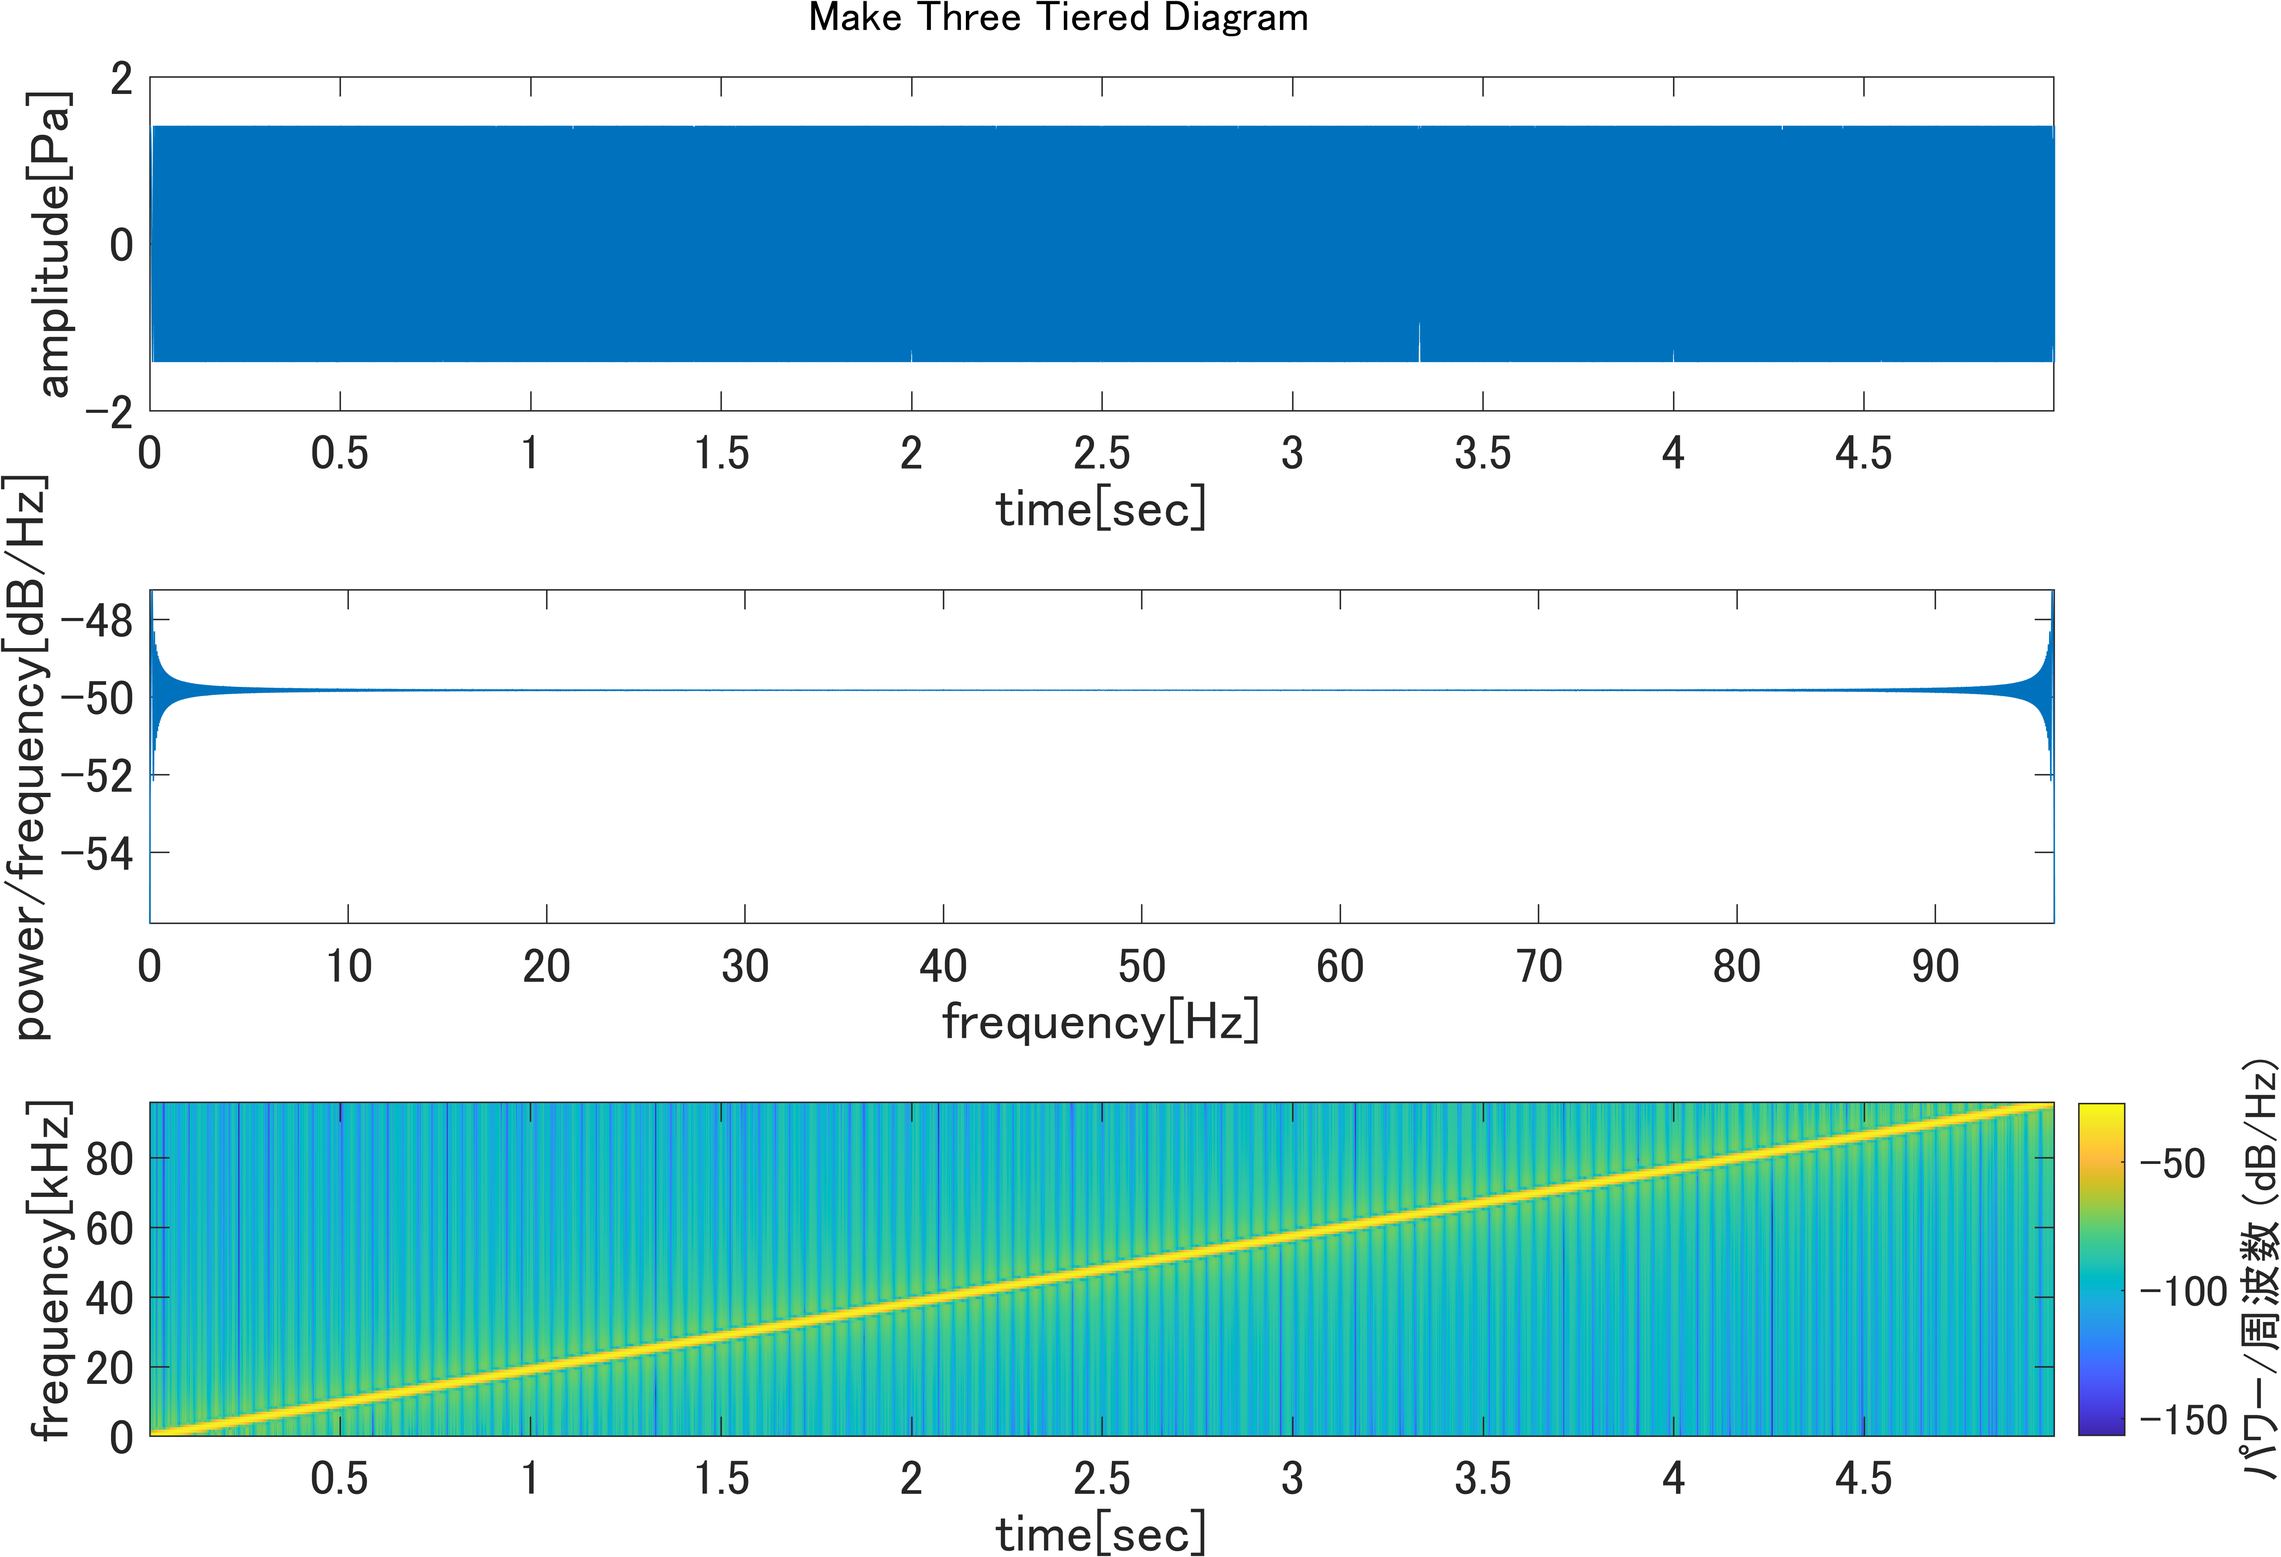
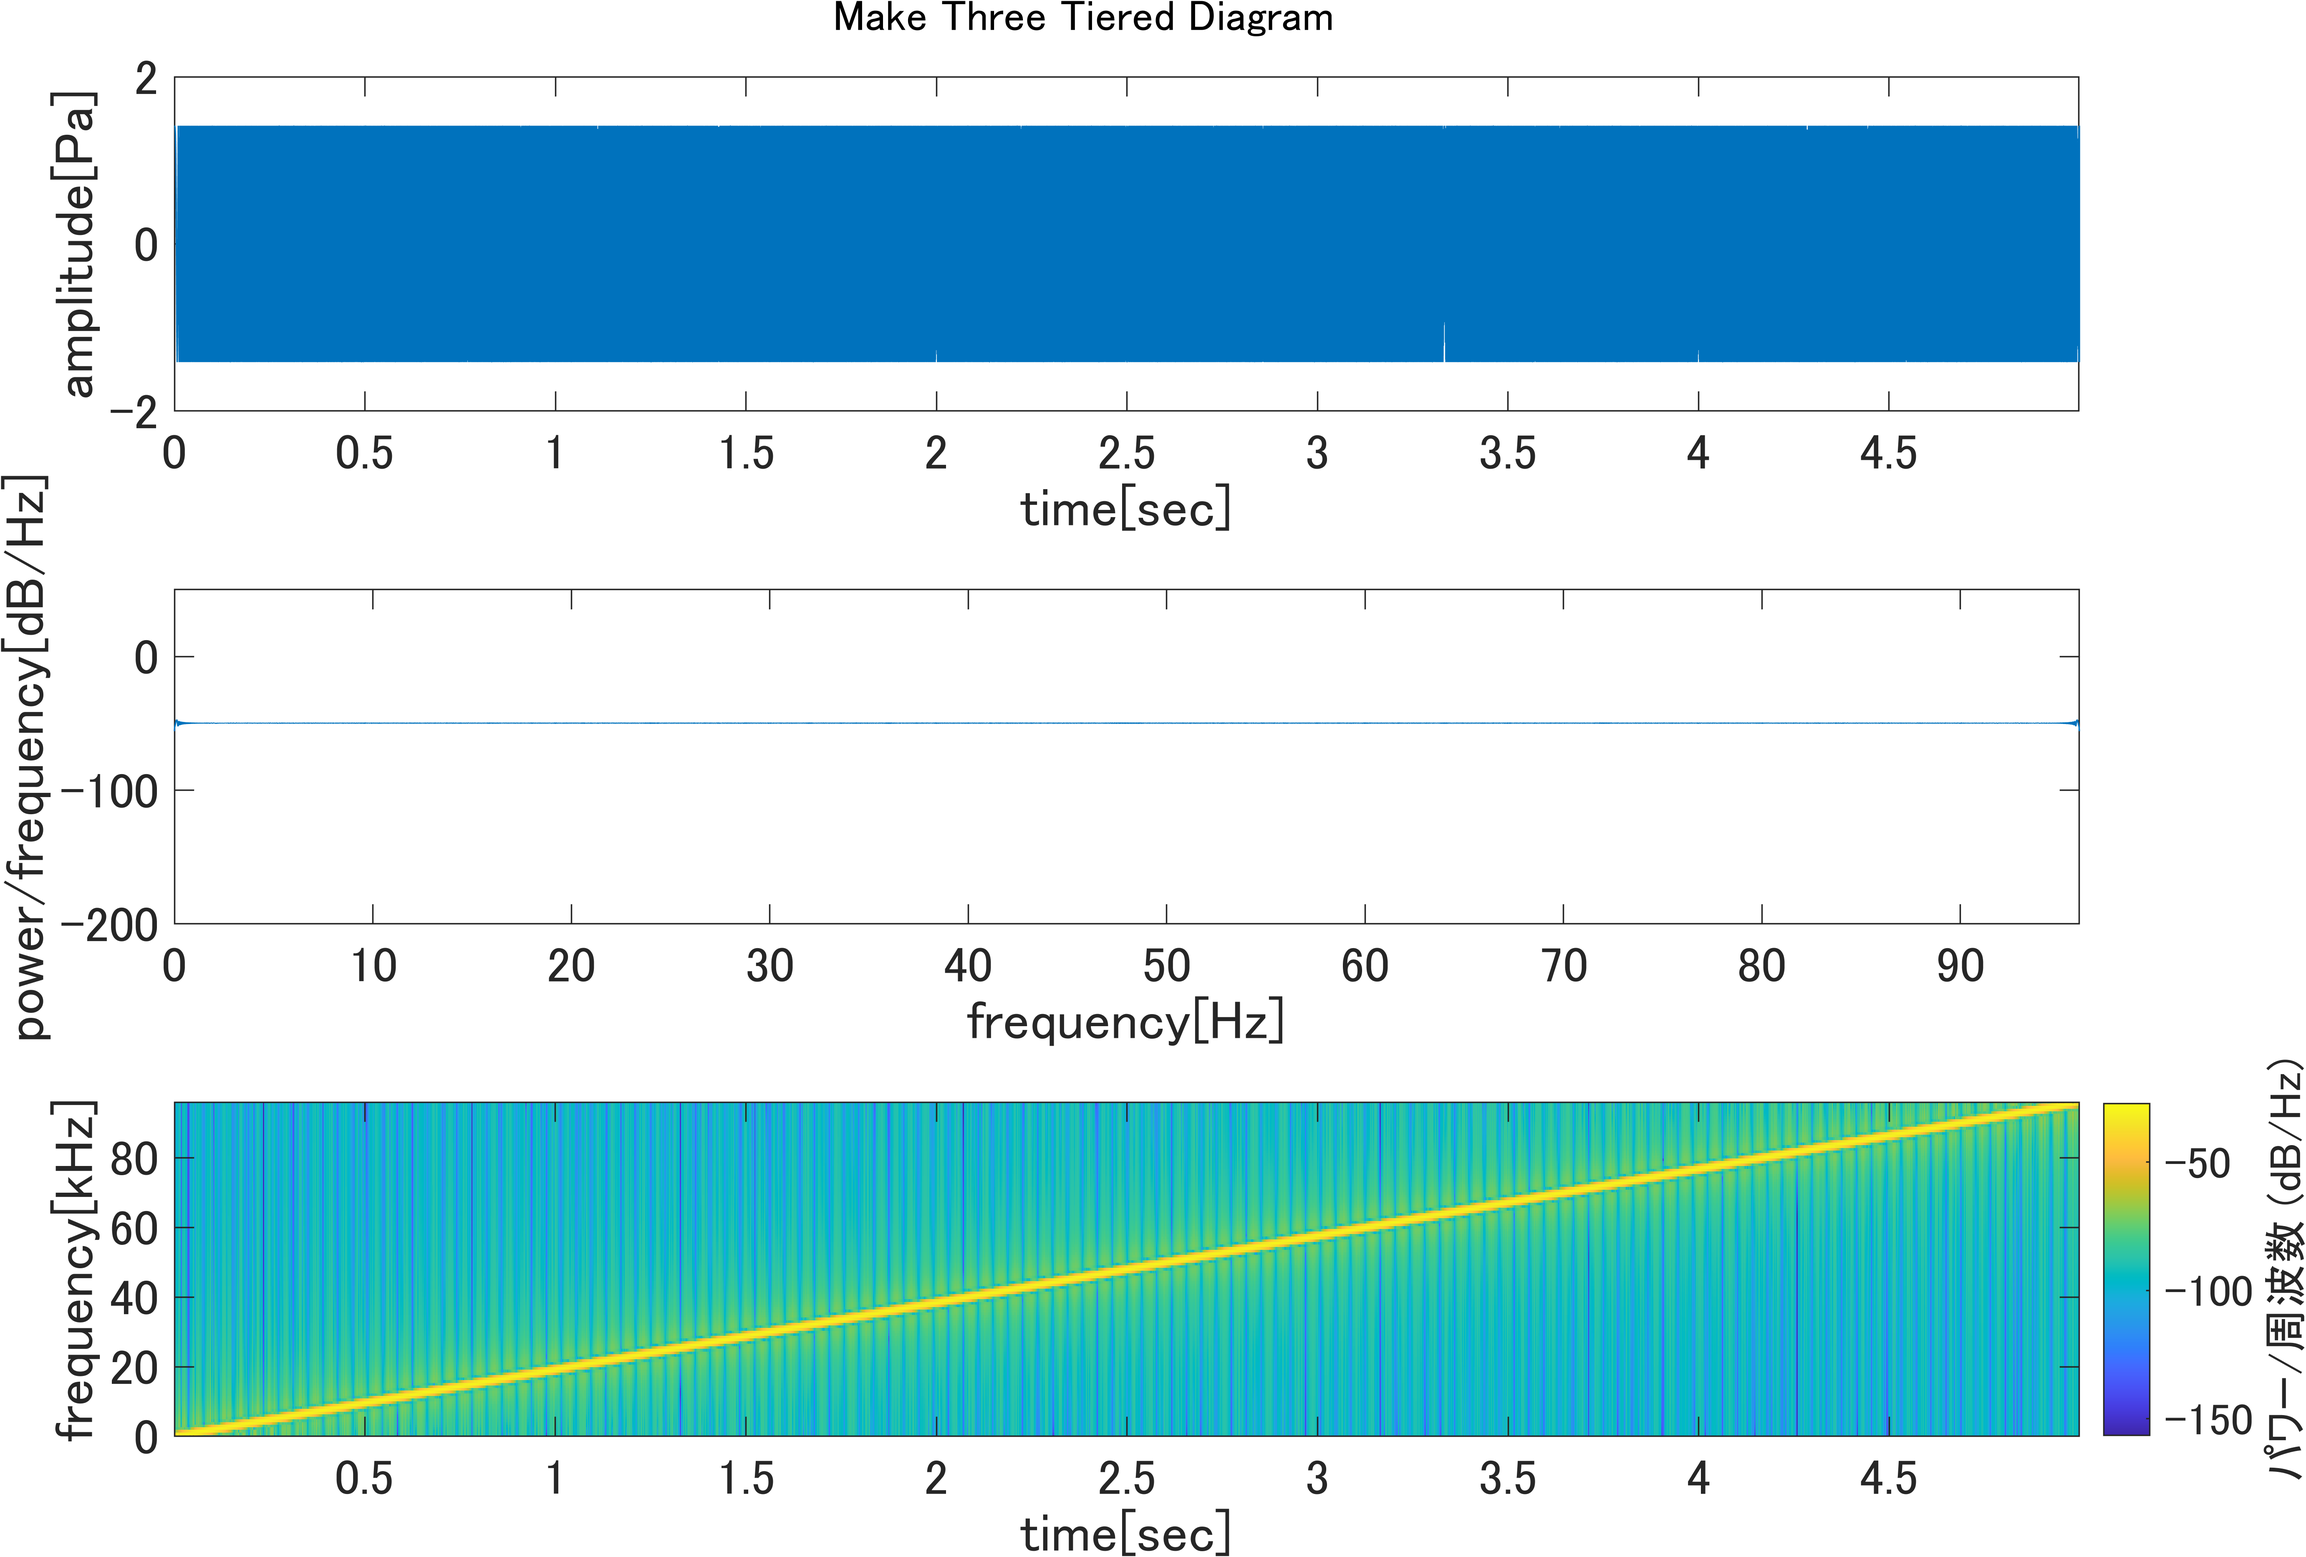
little change

diff --git a/2021/make_two_tiered_diagram_with_noise.m b/2021/make_two_tiered_diagram_with_noise.m
@@ -41,7 +41,7 @@ ax = gca;
 ax.FontSize = 20;
 
 %% 三段の図を作成する
-func_make_two_tiered_diagram_with_noise(t,y,fs,0,'./make_two_tiered_diagram/chirp_two_tiered_diagram.png');
+func_make_two_tiered_diagram_with_noise(t,y,fs,1,'./make_two_tiered_diagram/chirp_two_tiered_diagram.png');
 
 %% end %%
 
@@ -62,6 +62,7 @@ function [s,ave] = plot_psd(y,fs,cl)
   xlabel('frequency[Hz]');
 
   xlim([ freq(1)/1e3 freq(end)/1e3 ]);
+  ylim([-200 50]);
 
   ax = gca;
   ax.FontSize = 17;

diff --git a/2021/make_three_tiered_diagram.m b/2021/make_three_tiered_diagram.m
@@ -65,6 +65,7 @@ function [freq,l,ave] = plot_psd(y,fs,cl)
   xlabel('frequency[Hz]');
 
   xlim([ freq(1)/1e3 freq(end)/1e3 ]);
+  ylim([-200 50]);
 
   ax = gca;
   ax.FontSize = 17;
